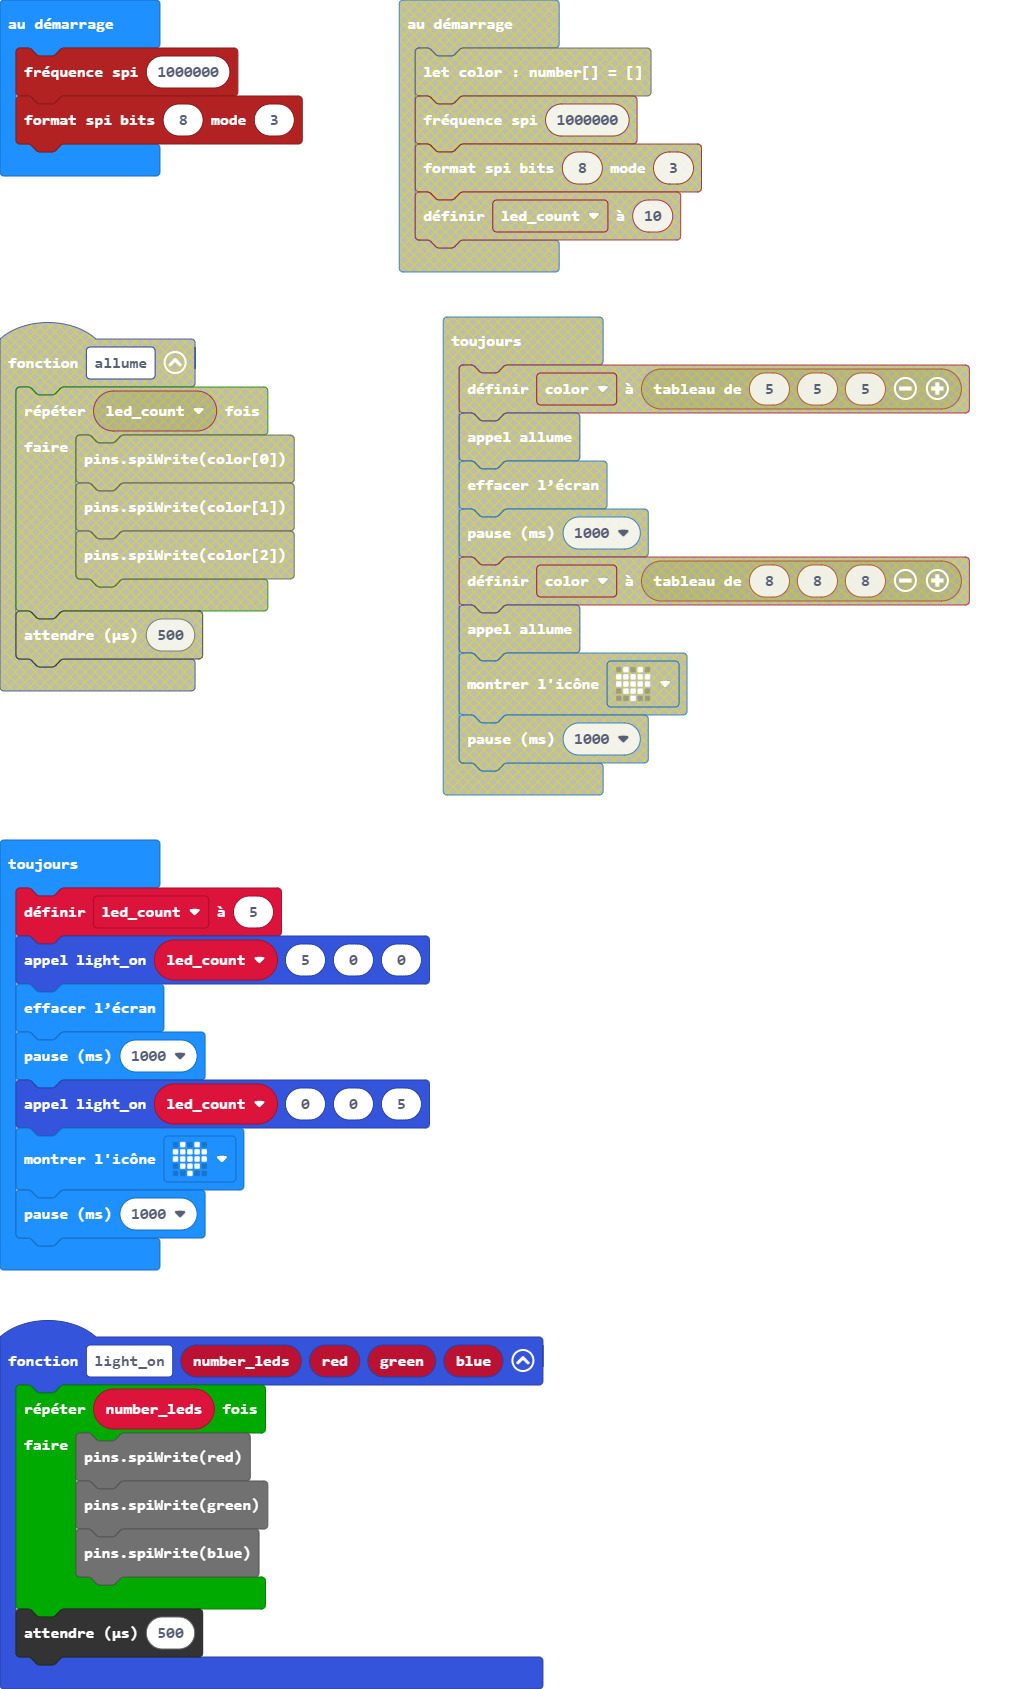
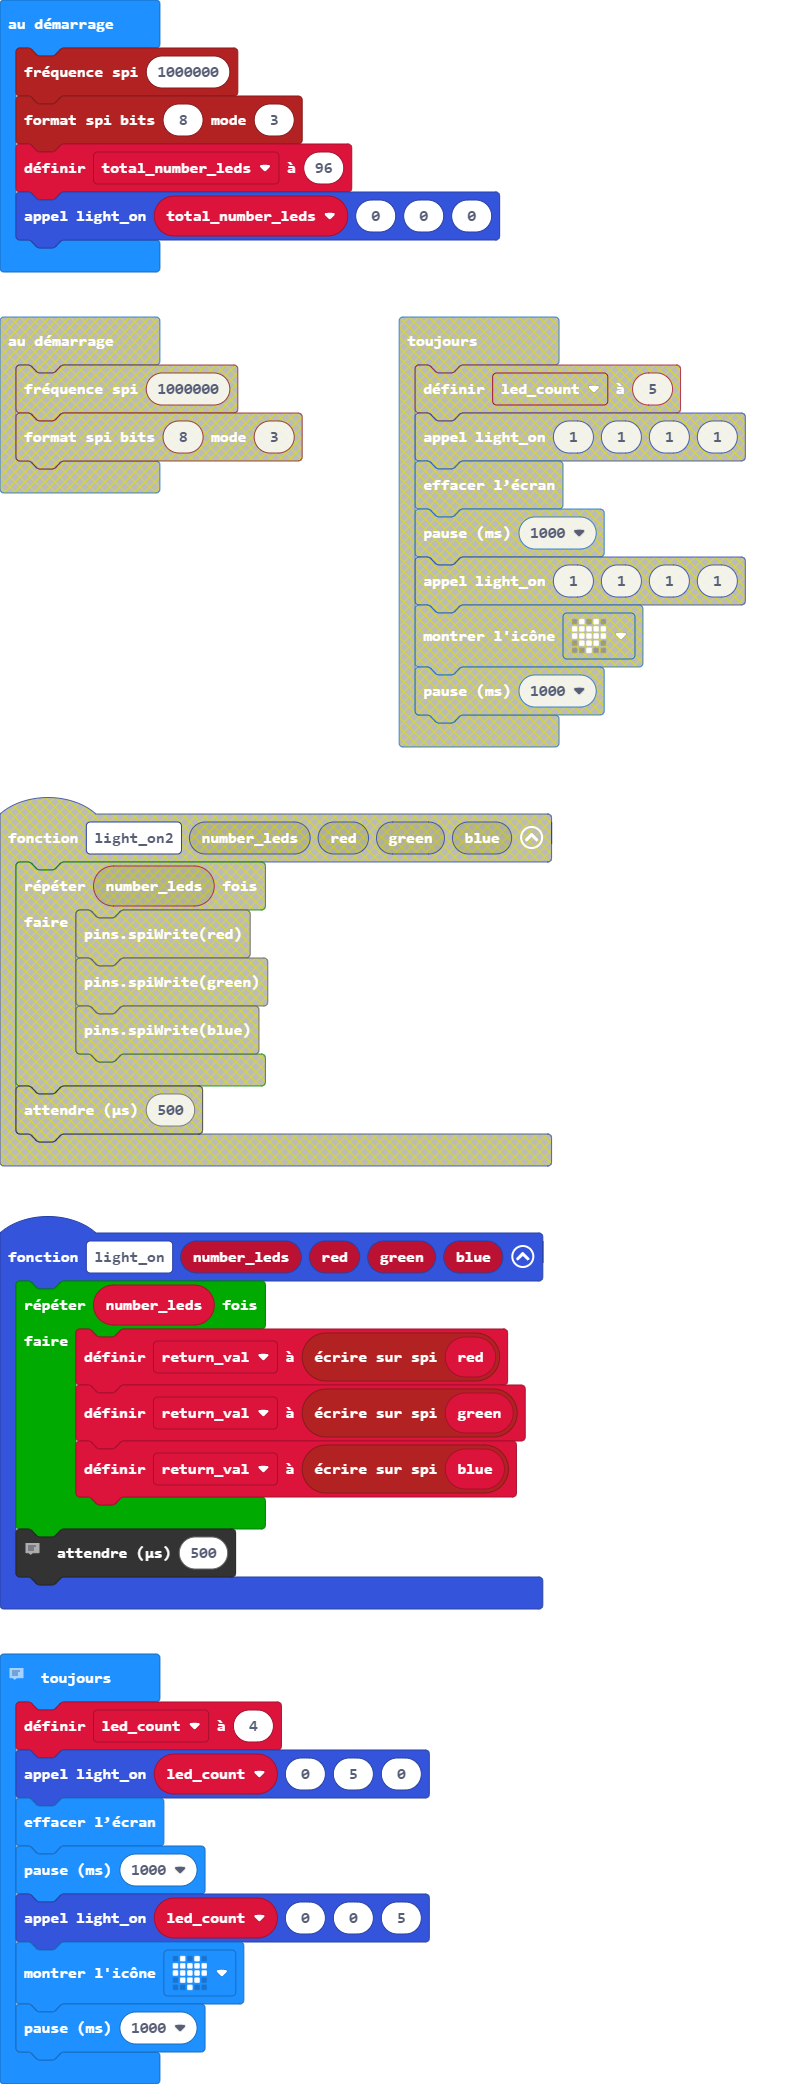
Mise à jour main.blocks, main.ts, main.py

diff --git a/main.ts b/main.ts
@@ -1,17 +1,26 @@
 function light_on (number_leds: number, red: number, green: number, blue: number) {
     for (let index = 0; index < number_leds; index++) {
-        pins.spiWrite(red)
-pins.spiWrite(green)
-pins.spiWrite(blue)
+        return_val = pins.spiWrite(red)
+        return_val = pins.spiWrite(green)
+        return_val = pins.spiWrite(blue)
     }
+    // WS2801 needs 500 micro seconds between flushes
     control.waitMicros(500)
 }
 let led_count = 0
+let return_val = 0
 pins.spiFrequency(1000000)
 pins.spiFormat(8, 3)
+let total_number_leds = 96
+light_on(total_number_leds, 0, 0, 0)
+// WS2801 LED strip  : definition : microbit
+// white             : GND        : GND
+// blue              : MOSI       : P15
+// green             : SCK        : P13
+// red               : VCC        : Not Connected
 basic.forever(function () {
-    led_count = 5
-    light_on(led_count, 5, 0, 0)
+    led_count = 4
+    light_on(led_count, 0, 5, 0)
     basic.clearScreen()
     basic.pause(1000)
     light_on(led_count, 0, 0, 5)

diff --git a/main.py b/main.py
@@ -1,20 +1,28 @@
-def light_on(number_leds: number, red: number, green: number, blue: number):
+def light_on2(number_leds: number, red: number, green: number, blue: number):
+    global return_val
     for index in range(number_leds):
-        pins.spi_write(red)
-        pins.spi_write(green)
-        pins.spi_write(blue)
+        return_val = pins.spi_write(red)
+        return_val = pins.spi_write(green)
+        return_val = pins.spi_write(blue)
+    # WS2801 needs 500 micro seconds between flushes
     control.wait_micros(500)
 led_count = 0
+return_val = 0
 pins.spi_frequency(1000000)
 pins.spi_format(8, 3)
 
+# WS2801 LED strip  : definition : microbit
+# white             : GND        : GND
+# blue              : MOSI       : P15
+# green             : SCK        : P13
+# red               : VCC        : Not Connected
 def on_forever():
     global led_count
-    led_count = 5
-    light_on(led_count, 5, 5, 0)
+    led_count = 4
+    light_on2(led_count, 0, 5, 0)
     basic.clear_screen()
     basic.pause(1000)
-    light_on(led_count, 8, 8, 8)
+    light_on2(led_count, 0, 0, 5)
     basic.show_icon(IconNames.HEART)
     basic.pause(1000)
 basic.forever(on_forever)
